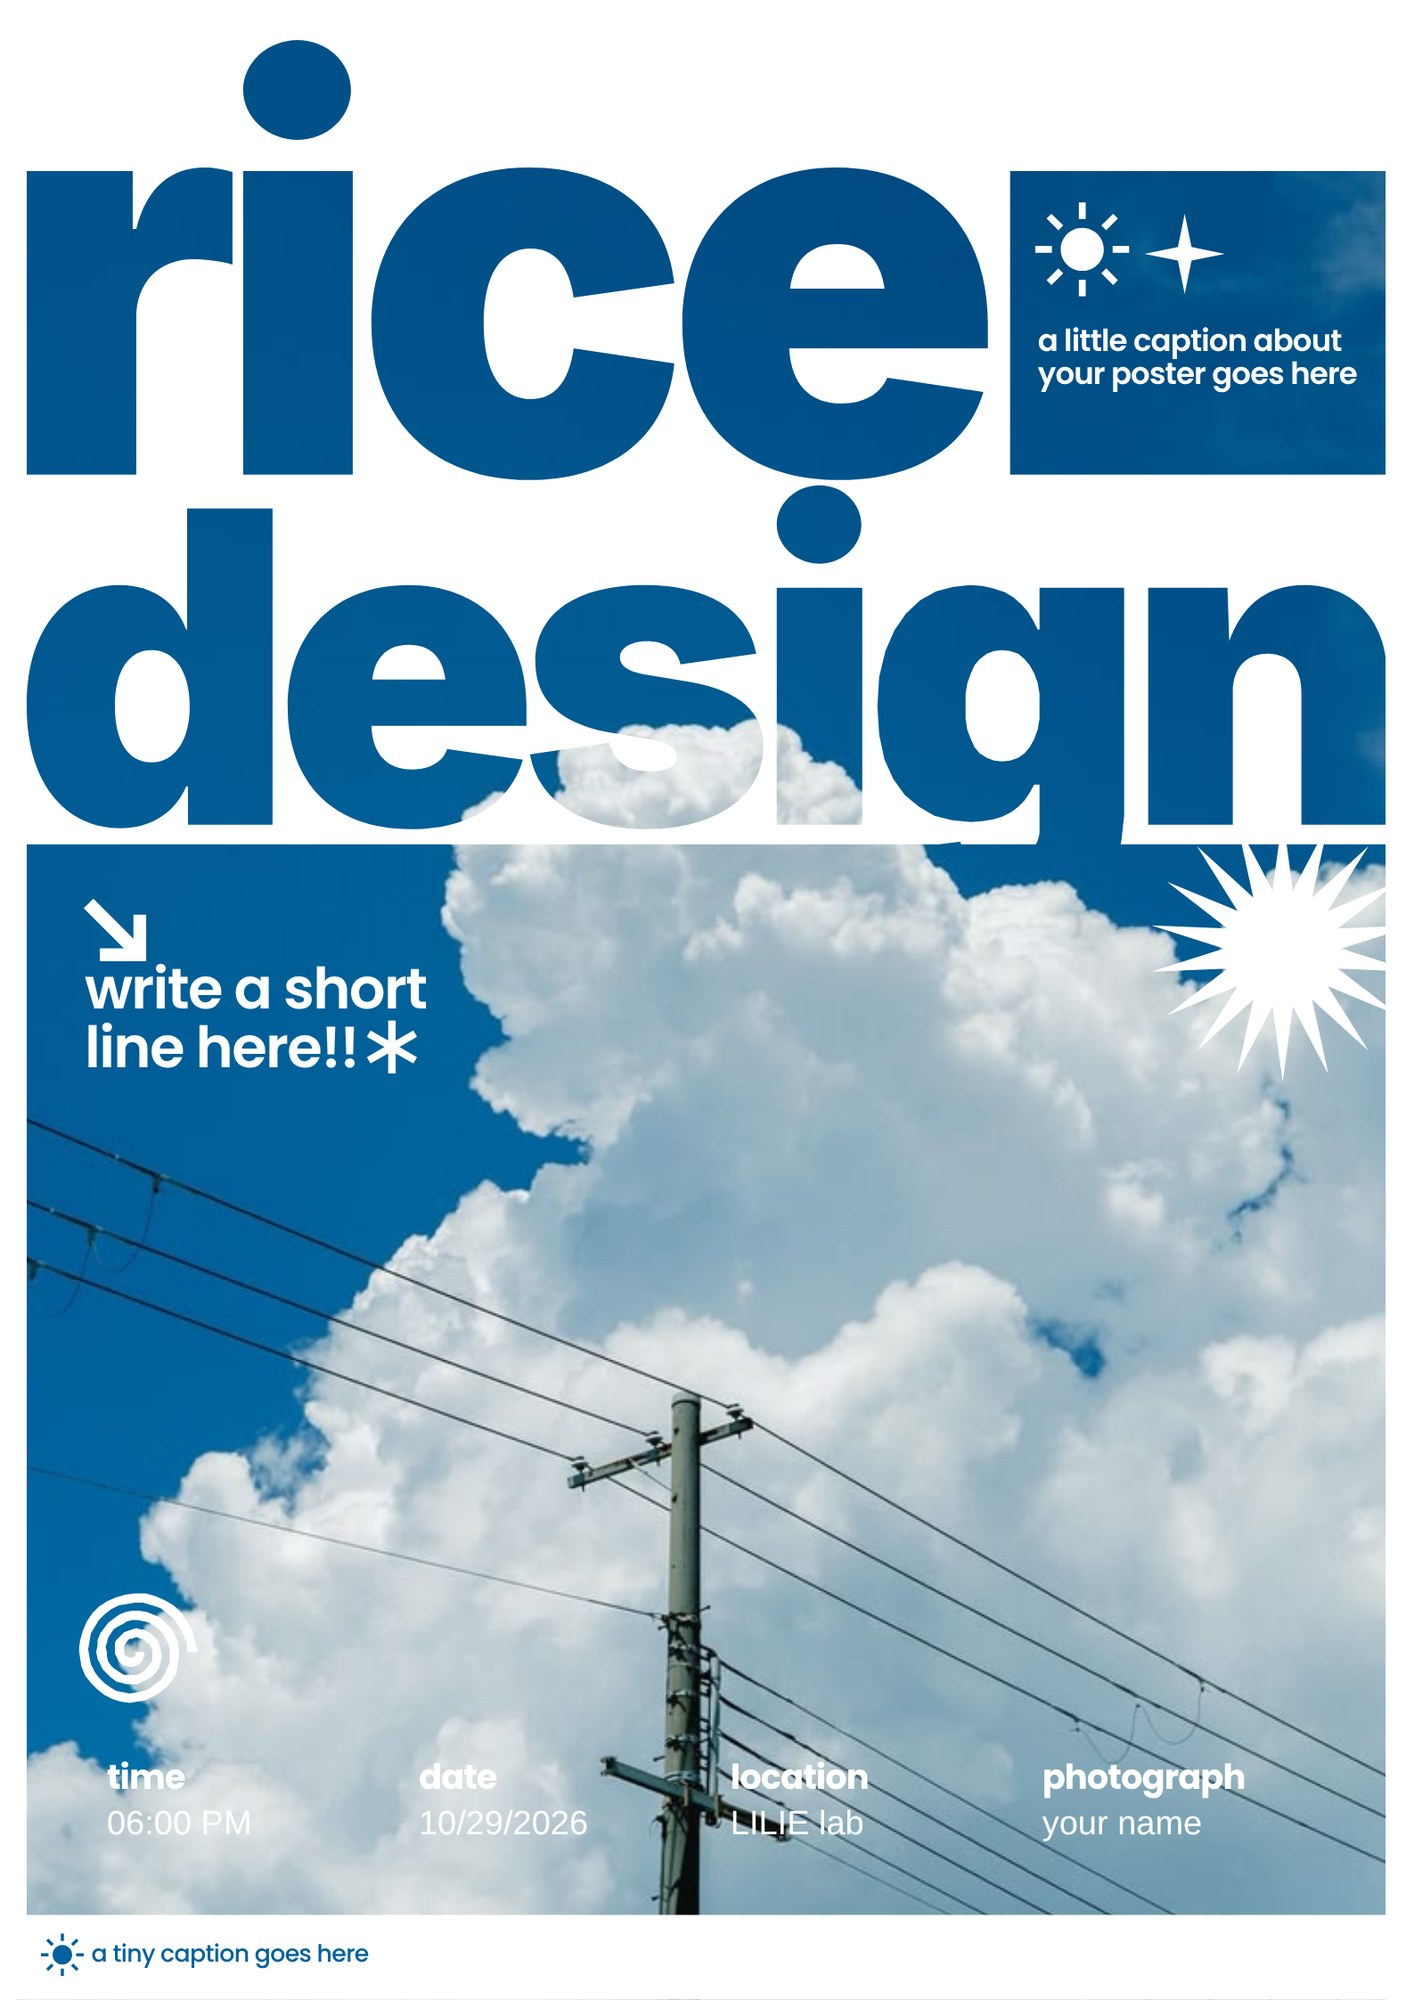
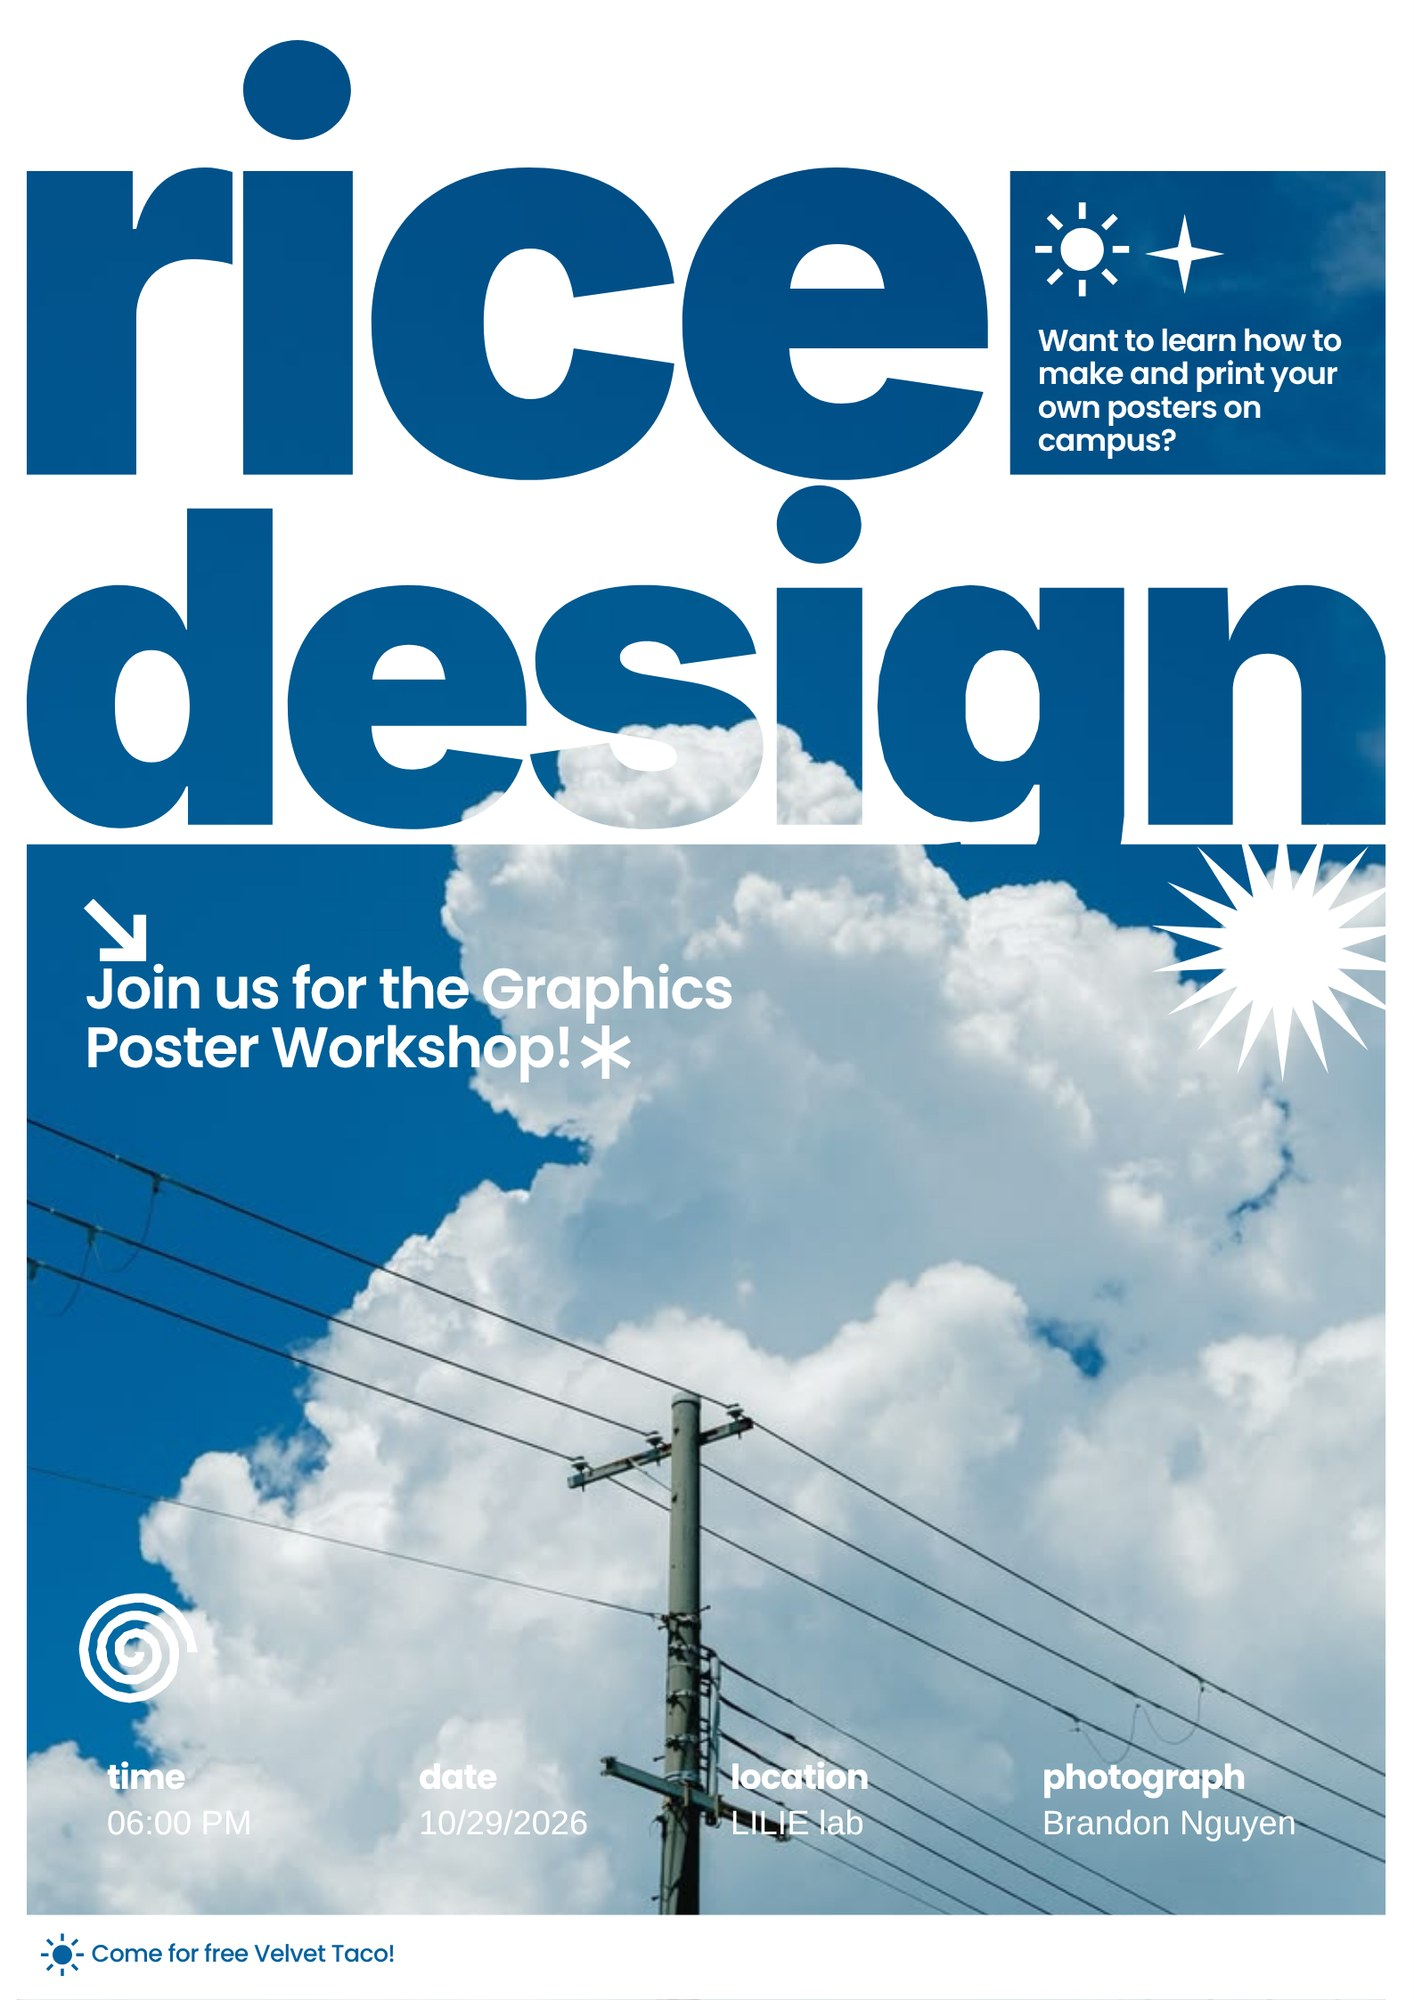
Replace Rice Design poster templates with finished posters
Claude-Session: https://claude.ai/code/session_014P4HtxNjHqz1LRypPXgB5u

diff --git a/index.html b/index.html
@@ -398,14 +398,14 @@ const GALLERIES = [
   {
     slug: "rice-design", title: "Rice Design Board",
     intro: "Event posters and student templates designed as Graphics Lead for Rice Design.",
-    rows: [[["rd-design-a-thon", "Design-A-Thon 2027 poster"], ["rd-intro-to-figma", "Intro to Figma workshop poster"], ["rd-tote-pumpkin", "Tote bag and pumpkin painting social poster"], ["rd-poster-workshop", "Design your own poster workshop poster"]], [["rd-collective", "Rice Design Collective mentorship poster"], ["rd-template-yellow", "Poster workshop student template, yellow"], ["rd-template-blue", "Poster workshop student template, blue"]]]
+    rows: [[["rd-design-a-thon", "Design-A-Thon 2027 poster"], ["rd-intro-to-figma", "Intro to Figma workshop poster"], ["rd-tote-pumpkin", "Tote bag and pumpkin painting social poster"], ["rd-poster-workshop", "Design your own poster workshop poster"]], [["rd-collective", "Rice Design Collective mentorship poster"], ["rd-template-yellow", "Rice Graphics poster workshop poster, yellow"], ["rd-template-blue", "Rice Design graphics poster workshop poster, blue"]]]
   }
 ];
 
 /* ---------- Rendering ---------- */
 /* Width / height of each image, used to give photos in the same row the same height. */
 /* Version stamp for each image: changes whenever the file changes, so browsers never show an old copy. */
-const VER = {"cover-totem-bw": "48537d75", "ext-composite-map": "68ab5634", "ext-hero": "6f1fc45c", "ext-line-1": "a2a90f1b", "ext-line-10": "c84da445", "ext-line-1000": "27a81b20", "ext-materials": "30ad8b8e", "ext-night": "faf32e3e", "ext-radial": "590df0a2", "ga-drawing-series": "f91880db", "ga-final-1": "09a7f45f", "ga-final-2": "66c22e1e", "ga-hero": "54fd23a5", "ga-model-series": "0a72b2a1", "ga-section-1": "2f350d43", "ga-section-2": "afc667f3", "int-axon": "2ac6a1e3", "int-hero": "dfdd2441", "int-light-plan": "b38be406", "int-model-1": "2a7ce5f2", "int-model-2": "708e6b99", "int-sections": "e8c22f73", "menil-axon": "2f6b10c1", "menil-circulation": "e6fc9e55", "menil-hero": "5f6a4c94", "menil-hilltop-plan": "8b4d6971", "menil-model-1": "96a0ca30", "menil-model-2": "bf9ecd9e", "menil-model-3": "11991dcf", "menil-model-4": "55ca1836", "menil-plan": "c77ab38e", "menil-section-a": "2fd18861", "menil-section-b": "96eb3b1e", "menil-site-plan": "a700ab07", "menil-transformations": "da0919b6", "mfah-aerial": "d153a139", "mfah-axon": "cfc6486b", "mfah-cantilever": "26e324f9", "mfah-hero": "a5e3f8cc", "mfah-plan-12": "ee211229", "mfah-section": "edad7a34", "mfah-site-plan": "efb69afc", "rd-collective": "00207cd5", "rd-design-a-thon": "77629064", "rd-intro-to-figma": "562c9c3d", "rd-poster-workshop": "258061fb", "rd-template-blue": "c4030a33", "rd-template-yellow": "1a58fb5d", "rd-tote-pumpkin": "49c4ad01", "totem-color": "8d7253c9", "totem-detail": "245af071", "totem-hero": "8af32ec0", "totem-plan-section": "da6f7f04", "totem-unit": "8989e4fa"};
+const VER = {"cover-totem-bw": "48537d75", "ext-composite-map": "68ab5634", "ext-hero": "6f1fc45c", "ext-line-1": "a2a90f1b", "ext-line-10": "c84da445", "ext-line-1000": "27a81b20", "ext-materials": "30ad8b8e", "ext-night": "faf32e3e", "ext-radial": "590df0a2", "ga-drawing-series": "f91880db", "ga-final-1": "09a7f45f", "ga-final-2": "66c22e1e", "ga-hero": "54fd23a5", "ga-model-series": "0a72b2a1", "ga-section-1": "2f350d43", "ga-section-2": "afc667f3", "int-axon": "2ac6a1e3", "int-hero": "dfdd2441", "int-light-plan": "b38be406", "int-model-1": "2a7ce5f2", "int-model-2": "708e6b99", "int-sections": "e8c22f73", "menil-axon": "2f6b10c1", "menil-circulation": "e6fc9e55", "menil-hero": "5f6a4c94", "menil-hilltop-plan": "8b4d6971", "menil-model-1": "96a0ca30", "menil-model-2": "bf9ecd9e", "menil-model-3": "11991dcf", "menil-model-4": "55ca1836", "menil-plan": "c77ab38e", "menil-section-a": "2fd18861", "menil-section-b": "96eb3b1e", "menil-site-plan": "a700ab07", "menil-transformations": "da0919b6", "mfah-aerial": "d153a139", "mfah-axon": "cfc6486b", "mfah-cantilever": "26e324f9", "mfah-hero": "a5e3f8cc", "mfah-plan-12": "ee211229", "mfah-section": "edad7a34", "mfah-site-plan": "efb69afc", "rd-collective": "00207cd5", "rd-design-a-thon": "77629064", "rd-intro-to-figma": "562c9c3d", "rd-poster-workshop": "258061fb", "rd-template-blue": "503b6639", "rd-template-yellow": "319695e0", "rd-tote-pumpkin": "49c4ad01", "totem-color": "8d7253c9", "totem-detail": "245af071", "totem-hero": "8af32ec0", "totem-plan-section": "da6f7f04", "totem-unit": "8989e4fa"};
 const DIMS = {"cover-totem-bw": 0.713, "ext-composite-map": 1.016, "ext-hero": 1.001, "ext-line-1": 1.0, "ext-line-10": 1.0, "ext-line-1000": 1.0, "ext-materials": 1.009, "ext-night": 1.007, "ext-radial": 1.001, "ga-drawing-series": 1.0, "ga-final-1": 1.0, "ga-final-2": 1.0, "ga-hero": 1.5, "ga-model-series": 1.0, "ga-section-1": 1.0, "ga-section-2": 1.0, "int-axon": 0.6, "int-hero": 0.716, "int-light-plan": 0.433, "int-model-1": 1.508, "int-model-2": 1.022, "int-sections": 0.517, "menil-axon": 1.543, "menil-circulation": 0.812, "menil-hero": 1.011, "menil-hilltop-plan": 1.061, "menil-model-1": 1.007, "menil-model-2": 1.023, "menil-model-3": 1.015, "menil-model-4": 1.018, "menil-plan": 0.994, "menil-section-a": 1.78, "menil-section-b": 1.674, "menil-site-plan": 1.049, "menil-transformations": 0.541, "mfah-aerial": 1.0, "mfah-axon": 1.0, "mfah-cantilever": 1.0, "mfah-hero": 1.5, "mfah-plan-12": 0.816, "mfah-section": 1.518, "mfah-site-plan": 0.793, "rd-collective": 0.8, "rd-design-a-thon": 0.8, "rd-intro-to-figma": 0.8, "rd-poster-workshop": 0.8, "rd-template-blue": 0.707, "rd-template-yellow": 0.707, "rd-tote-pumpkin": 0.801, "totem-color": 0.71, "totem-detail": 0.71, "totem-hero": 0.714, "totem-plan-section": 0.621, "totem-unit": 0.621};
 const app = document.getElementById("app");
 const esc = s => String(s).replace(/[&<>"]/g, c => ({ "&": "&amp;", "<": "&lt;", ">": "&gt;", '"': "&quot;" }[c]));
